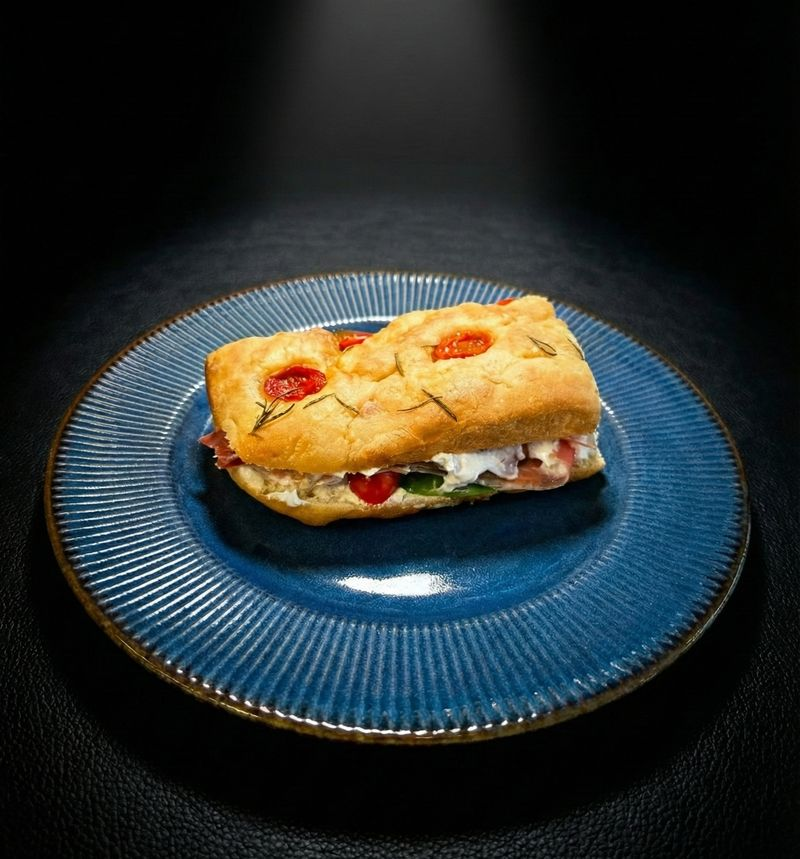
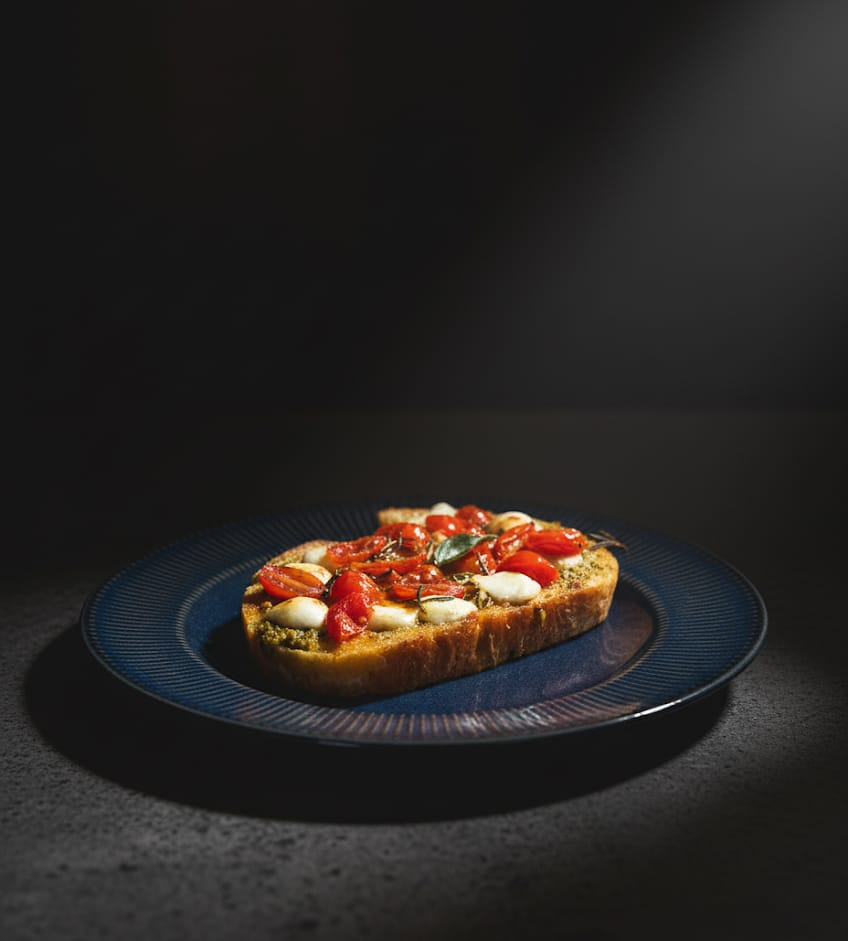
Café: corrige foto do Toast Caprese + add Torta de Frango (6 cards)
- toast-caprese.jpg agora é a foto real do caprese (era focaccia/burrata)
- novo card Torta de Frango (torta-frango.jpg)
- copy: "torta de frango" -> "tortas salgadas" no hero e na intro do café
- stat "30+ itens" -> "3 / café · flores · presentes" (posicionamento 3-em-1)
- galeria do Ambiente: 7ª foto (ambiente-6.jpg)

diff --git a/src/App.jsx b/src/App.jsx
@@ -428,8 +428,8 @@ function Hero() {
           </h1>
 
           <p className="hero-meta mx-auto max-w-xl text-white/75 text-base sm:text-lg mt-8 leading-relaxed">
-            Cafés especiais, croissants, toasts, sanduíches artesanais, torta de
-            frango, flores e presentes para diferentes momentos do dia.
+            Cafés especiais, croissants, toasts, sanduíches artesanais, tortas
+            salgadas, flores e presentes para diferentes momentos do dia.
           </p>
 
           <div className="hero-cta mt-10 flex flex-col sm:flex-row gap-4 justify-center">
@@ -479,7 +479,7 @@ function Historia() {
 
   const stats = [
     { node: <CountUp target={2024} duration={2200} />, label: 'desde dezembro' },
-    { node: <CountUp target={30} suffix="+" duration={1800} />, label: 'itens no cardápio' },
+    { node: <CountUp target={3} duration={1400} />, label: 'café · flores · presentes' },
     { node: <CountUp target={100} suffix="%" duration={2000} />, label: 'feito à mão' },
   ]
 
@@ -568,6 +568,11 @@ const CAFE_ITEMS = [
     img: '/img/produtos/croissant-presunto-queijo.jpg',
     desc: 'Croissant folhado com presunto e queijo derretido.',
   },
+  {
+    name: 'Torta de Frango',
+    img: '/img/produtos/torta-frango.jpg',
+    desc: 'Massa amanteigada e recheio cremoso. Uma das nossas tortas salgadas.',
+  },
 ]
 
 function Cafe() {
@@ -590,7 +595,7 @@ function Cafe() {
           </div>
           <p className="text-muted text-base sm:text-lg leading-relaxed max-w-sm">
             Do café da manhã ao lanche da tarde, temos bebidas quentes e
-            geladas, croissants, toasts, sanduíches artesanais, torta de frango,
+            geladas, croissants, toasts, sanduíches artesanais, tortas salgadas,
             pão de queijo e opções para acompanhar seu café.
           </p>
         </div>
@@ -897,6 +902,7 @@ const GALLERY = [
   { img: '/img/ambiente/ambiente-3.jpg', span: 'sm:row-span-2' },
   { img: '/img/ambiente/ambiente-4.jpg', span: '' },
   { img: '/img/ambiente/ambiente-5.jpg', span: '' },
+  { img: '/img/ambiente/ambiente-6.jpg', span: '' },
 ]
 
 function Ambiente() {